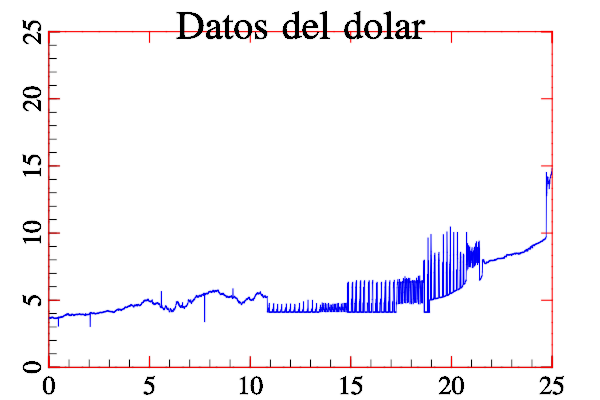
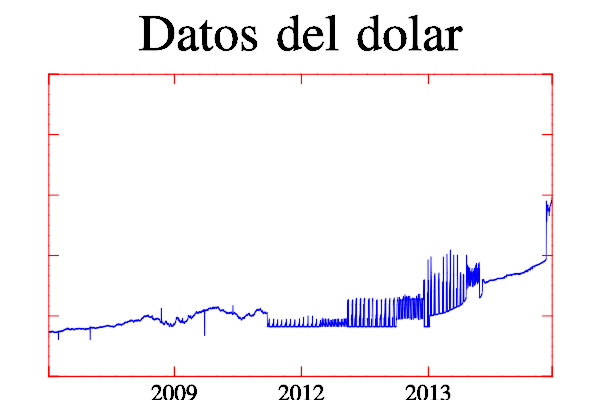
type time en eje x

diff --git a/Headers/Utils/Date.h b/Headers/Utils/Date.h
@@ -20,12 +20,19 @@ class Date {
 
 	public:
 		Date();
+		int getDay();
+		int getMonth();
+		int getYear();
 		string toString();
 		int toInteger();
 		float toFloat();
 		void loadDate(string sDate);
 	    bool operator < (const Date& a) const{
 	        return ( year < a.year || ( month < a.month && year == a.year) || (day < a.day && month == a.month && year == a.year));
+	    }
+	    friend ostream& operator << (ostream& os, const Date& m){
+	        os << m.day <<"/" << m.month<<"/"<<m.year;
+	        return os ;
 	    }
 		virtual ~Date();
 };

diff --git a/Source/Utils/MathGl.cpp b/Source/Utils/MathGl.cpp
@@ -23,9 +23,11 @@ void MathGl::drawData(map<Date,pair<float,float> >* sample,string title){
 	//le cargamos a la funcion los valores. La función link a diferencia de Set no copia los datos sino que se guarda un puntero al array
 	y.Link(a,sample->size());
 	//configuración de la imagen
-	gr.Title(title.c_str());
-	gr.SetRanges(0,25,0,25);
 	gr.SubPlot(1,1,0,"");
+	gr.Title(title.c_str());
+	gr.SetRanges(12000e5,14500e5,0,25);
+	gr.SetTicksTime('x',0);
+	gr.SetOrigin(0,0);
 	gr.Axis("xy");
 	gr.Box("r");
 	//genera el gráfico

diff --git a/Source/Utils/Date.cpp b/Source/Utils/Date.cpp
@@ -36,6 +36,18 @@ void Date::loadDate(string sDate){
 	this->year = atoi((*(tokens.begin()+2)).c_str());
 }
 
+int Date::getDay(){
+	return this->day;
+}
+
+int Date::getMonth(){
+	return this->month;
+}
+
+int Date::getYear(){
+	return this->year;
+}
+
 Date::~Date() {
 	// TODO Auto-generated destructor stub
 }
